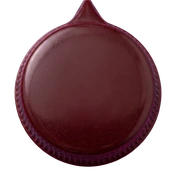
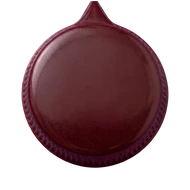
Blackface knob numbered 1-10, Big Muff title centred, Centaur knobs without the disc
- blackface-knob: new Gemini sprite (original knob with numbers removed, then 1-10
  added clockwise; the old one read 1,2,3,6,8,9,9,10,10,1)
- bigmuff-body: BIG MUFF print moved 22px left / 17px down, centred in the blank
  band between the sliders and the LED
- klon-knob: sprite re-centred on the knob's own axis (was 6px off, so it wobbled),
  and the round box-shadow/sheen disc swapped for a drop-shadow that follows the
  teardrop outline

Claude-Session: https://claude.ai/code/session_01CWvZQidpFbszShypYugAgw

diff --git a/style.css b/style.css
@@ -1665,6 +1665,14 @@ input[type="range"]:focus-visible { outline: 2px solid var(--brass); outline-off
               radial-gradient(circle at 66% 78%, rgba(0, 0, 0, 0.22), transparent 60%);
 }
 
+/* Klon: teardrop knob (pointer pokes past the round cap), so no round shadow/sheen disc: the
+   shadow follows the knob's own outline, and stays below it as the knob turns. */
+.pedal-stompbox.photo-skin.knob-sprite[data-pedal-type="klon"] .knob-dial-wrap {
+  box-shadow: none; border-radius: 0; filter: drop-shadow(0 3px 2.5px rgba(0, 0, 0, 0.5));
+}
+.pedal-stompbox.photo-skin.knob-sprite[data-pedal-type="klon"] .knob-dial { border-radius: 0; }
+.pedal-stompbox.photo-skin.knob-sprite[data-pedal-type="klon"] .knob-dial-wrap::after { display: none; }
+
 /* ?/x buttons nudged below the slider row (sliders keep clear of their values) */
 .photo-skin[data-pedal-type="cs3"] .stompbox-plate { top: calc(var(--plate-y) + 23px); }
 .photo-skin[data-pedal-type="sd1"] .stompbox-plate { top: calc(var(--plate-y) + 5px); }
@@ -1789,9 +1797,9 @@ input[type="range"]:focus-visible { outline: 2px solid var(--brass); outline-off
 .photo-skin[data-pedal-type="fuzzface"] .knob-row:nth-child(3) { --kx: 144.9px; --ky: 47.7px; --kd: 29.3px; --col: 72.5%; --vy: 42.0%; --sy: 48.0%; --sw: 18.0%; }
 /* klon: generated by pipe.py (img/klon.webp, 400x502) */
 .photo-skin[data-pedal-type="klon"] { --fs-x: calc(50.0% - 26px); --fs-y: calc(87.0% - 26px); --fs-w: 52px; --fs-h: 52px; --led-x: 50.0%; --led-y: 67.7%; --led-d: 14px; }
-.photo-skin[data-pedal-type="klon"] .knob-row:nth-child(1) { --kx: 41.5px; --ky: 44.0px; --kd: 46px; --col: 20.8%; --vy: 37.4%; --sy: 45.1%; --sw: 23.5%; }
-.photo-skin[data-pedal-type="klon"] .knob-row:nth-child(2) { --kx: 100.0px; --ky: 44.0px; --kd: 46px; --col: 50.0%; --vy: 37.4%; --sy: 45.1%; --sw: 23.5%; }
-.photo-skin[data-pedal-type="klon"] .knob-row:nth-child(3) { --kx: 158.5px; --ky: 44.0px; --kd: 46px; --col: 79.2%; --vy: 37.4%; --sy: 45.1%; --sw: 23.5%; }
+.photo-skin[data-pedal-type="klon"] .knob-row:nth-child(1) { --kx: 41.5px; --ky: 45.6px; --kd: 49.7px; --col: 20.8%; --vy: 37.4%; --sy: 45.1%; --sw: 23.5%; }
+.photo-skin[data-pedal-type="klon"] .knob-row:nth-child(2) { --kx: 100.0px; --ky: 45.6px; --kd: 49.7px; --col: 50.0%; --vy: 37.4%; --sy: 45.1%; --sw: 23.5%; }
+.photo-skin[data-pedal-type="klon"] .knob-row:nth-child(3) { --kx: 158.5px; --ky: 45.6px; --kd: 49.7px; --col: 79.2%; --vy: 37.4%; --sy: 45.1%; --sw: 23.5%; }
 /* bd2: generated by pipe.py (img/bd2.webp, 400x726) */
 .photo-skin[data-pedal-type="bd2"] { --fs-x: 5.0%; --fs-y: 64.0%; --fs-w: 90.0%; --fs-h: 33.0%; --fs-r: 6px; --led-x: 50.0%; --led-y: 3.5%; --led-d: 14px; --grip-y: 35.0%; --plate-y: 35.0%; }
 .photo-skin[data-pedal-type="bd2"] .knob-row:nth-child(1) { --kx: 41.5px; --ky: 47.1px; --kd: 44px; --col: 20.8%; --vy: 26.7%; --sy: 31.3%; --sw: 23.5%; }

diff --git a/index.html b/index.html
@@ -4,7 +4,7 @@
 <meta charset="utf-8">
 <title>Guitar FX Pedalboard</title>
 <meta name="viewport" content="width=device-width, initial-scale=1">
-<link rel="stylesheet" href="style.css?v=199">
+<link rel="stylesheet" href="style.css?v=200">
 <script>
   (function () {
     var root = document.documentElement;
